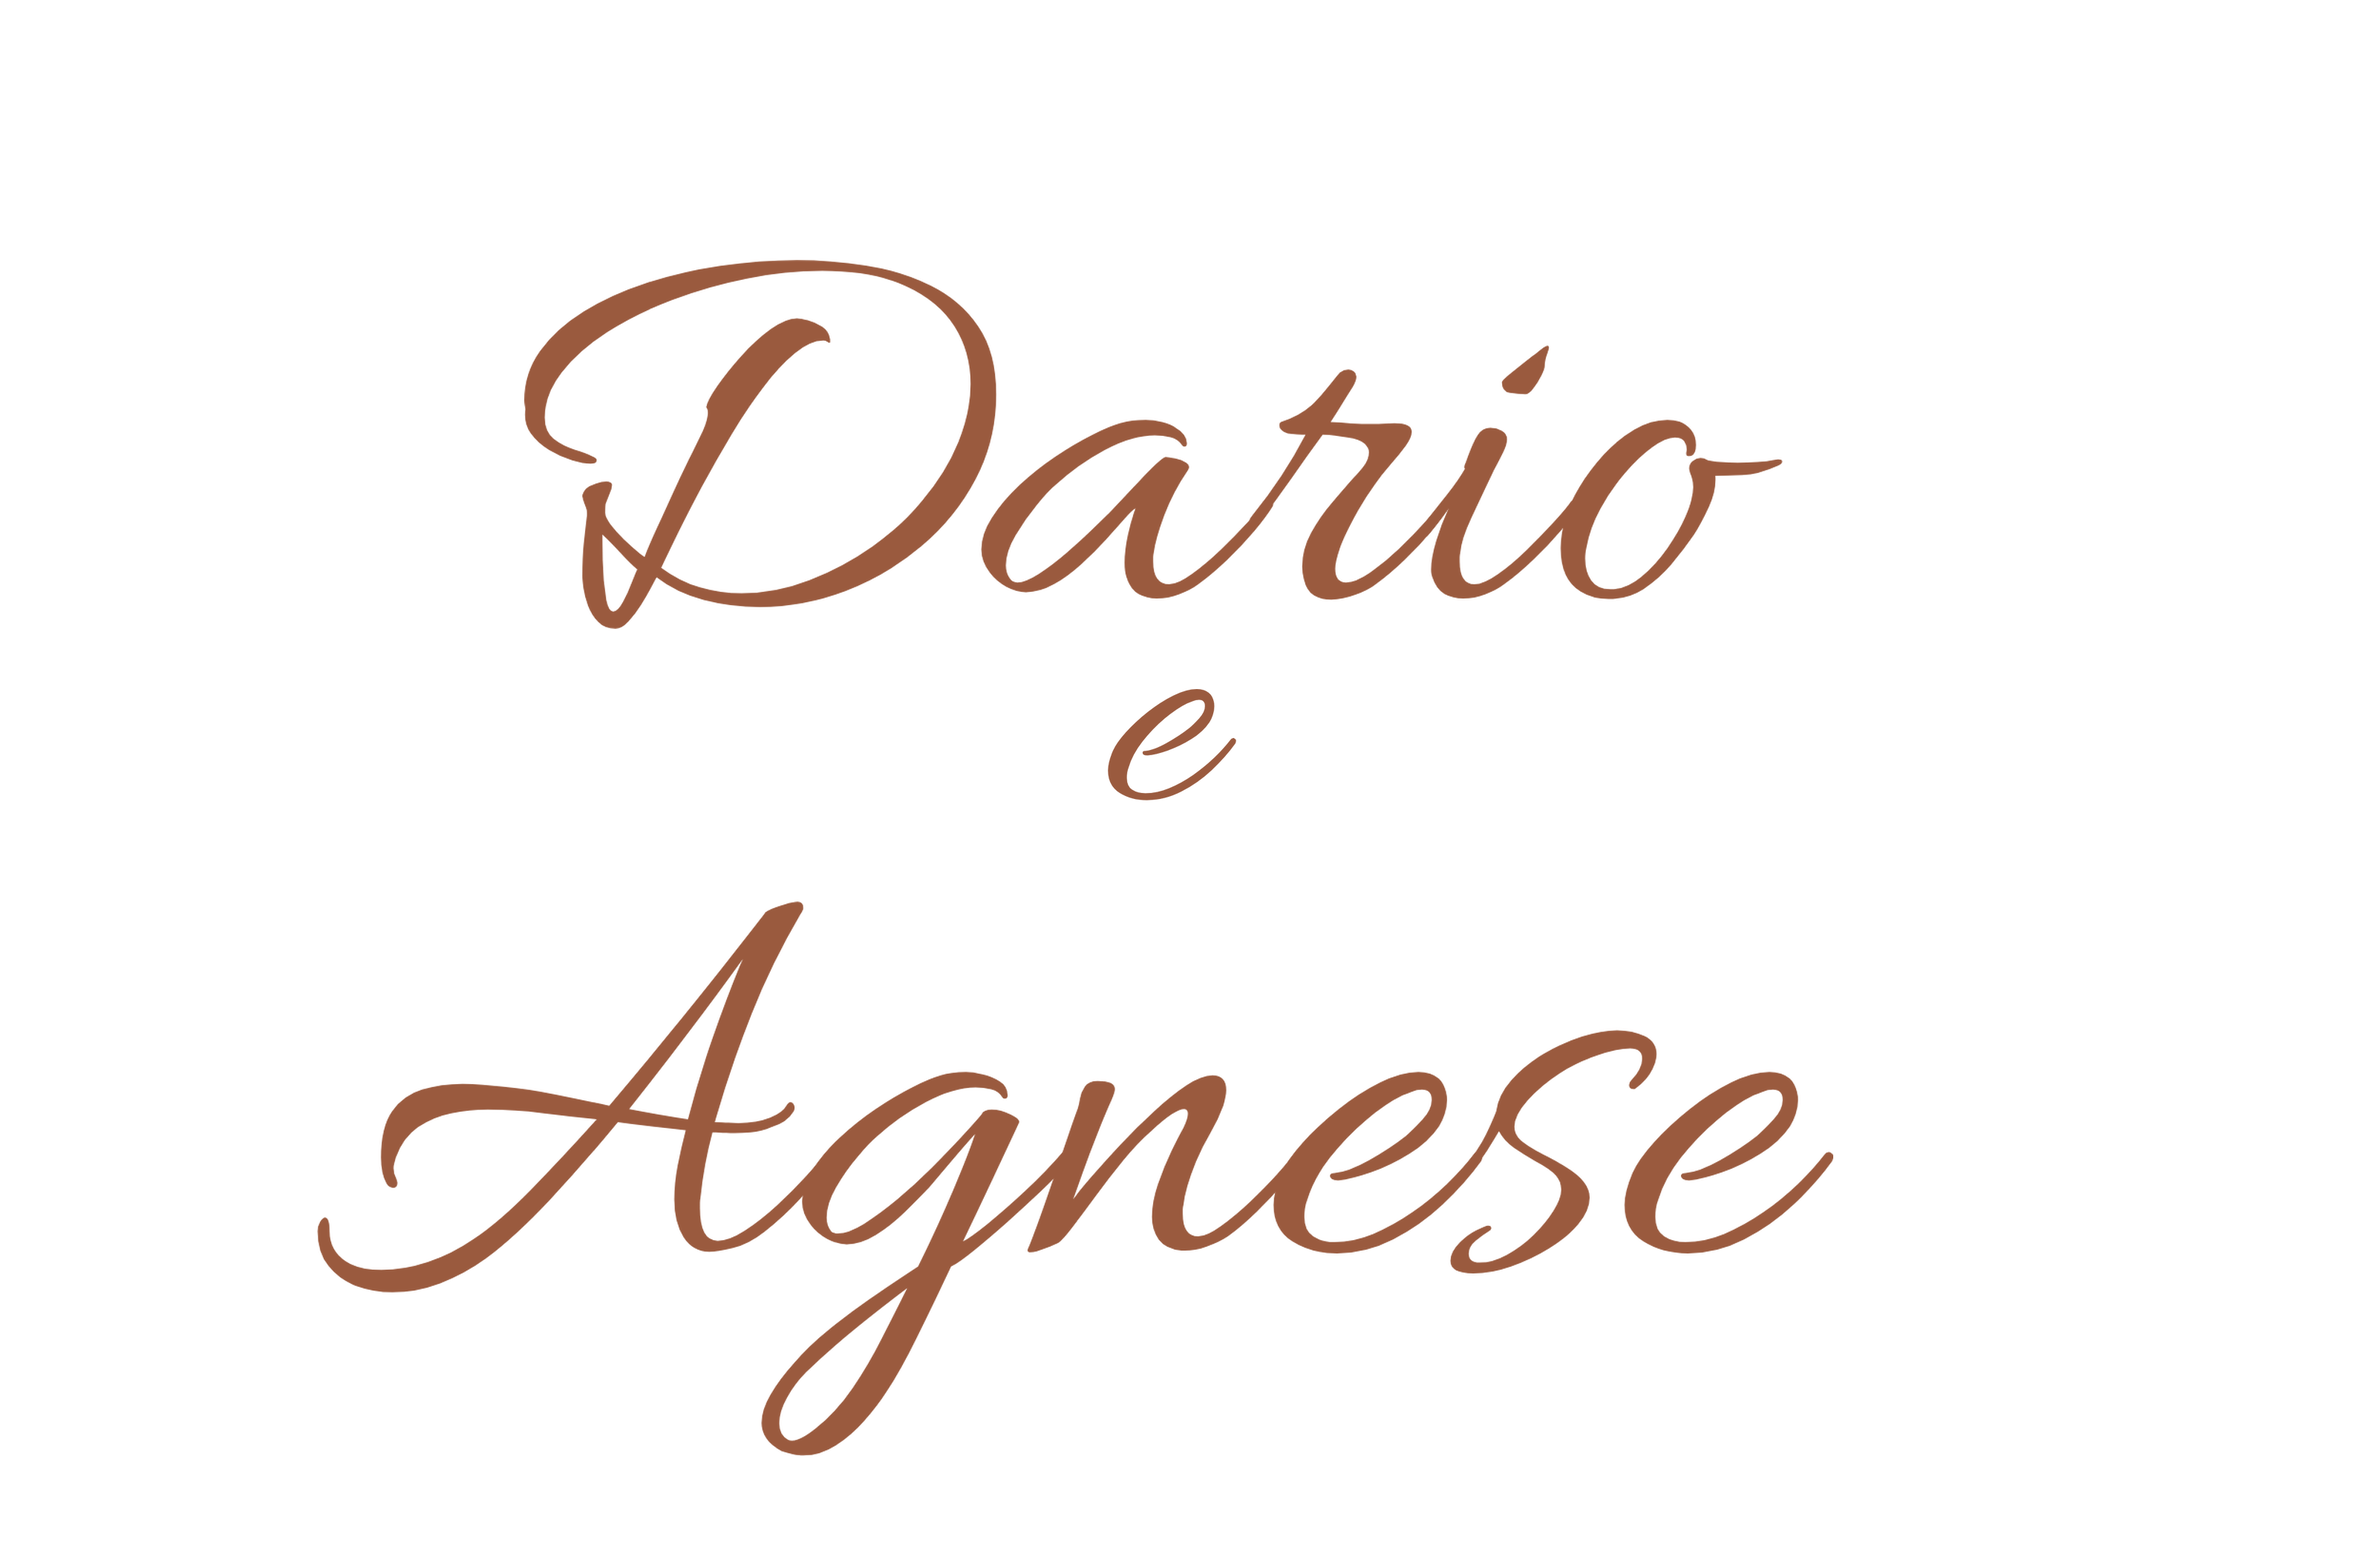
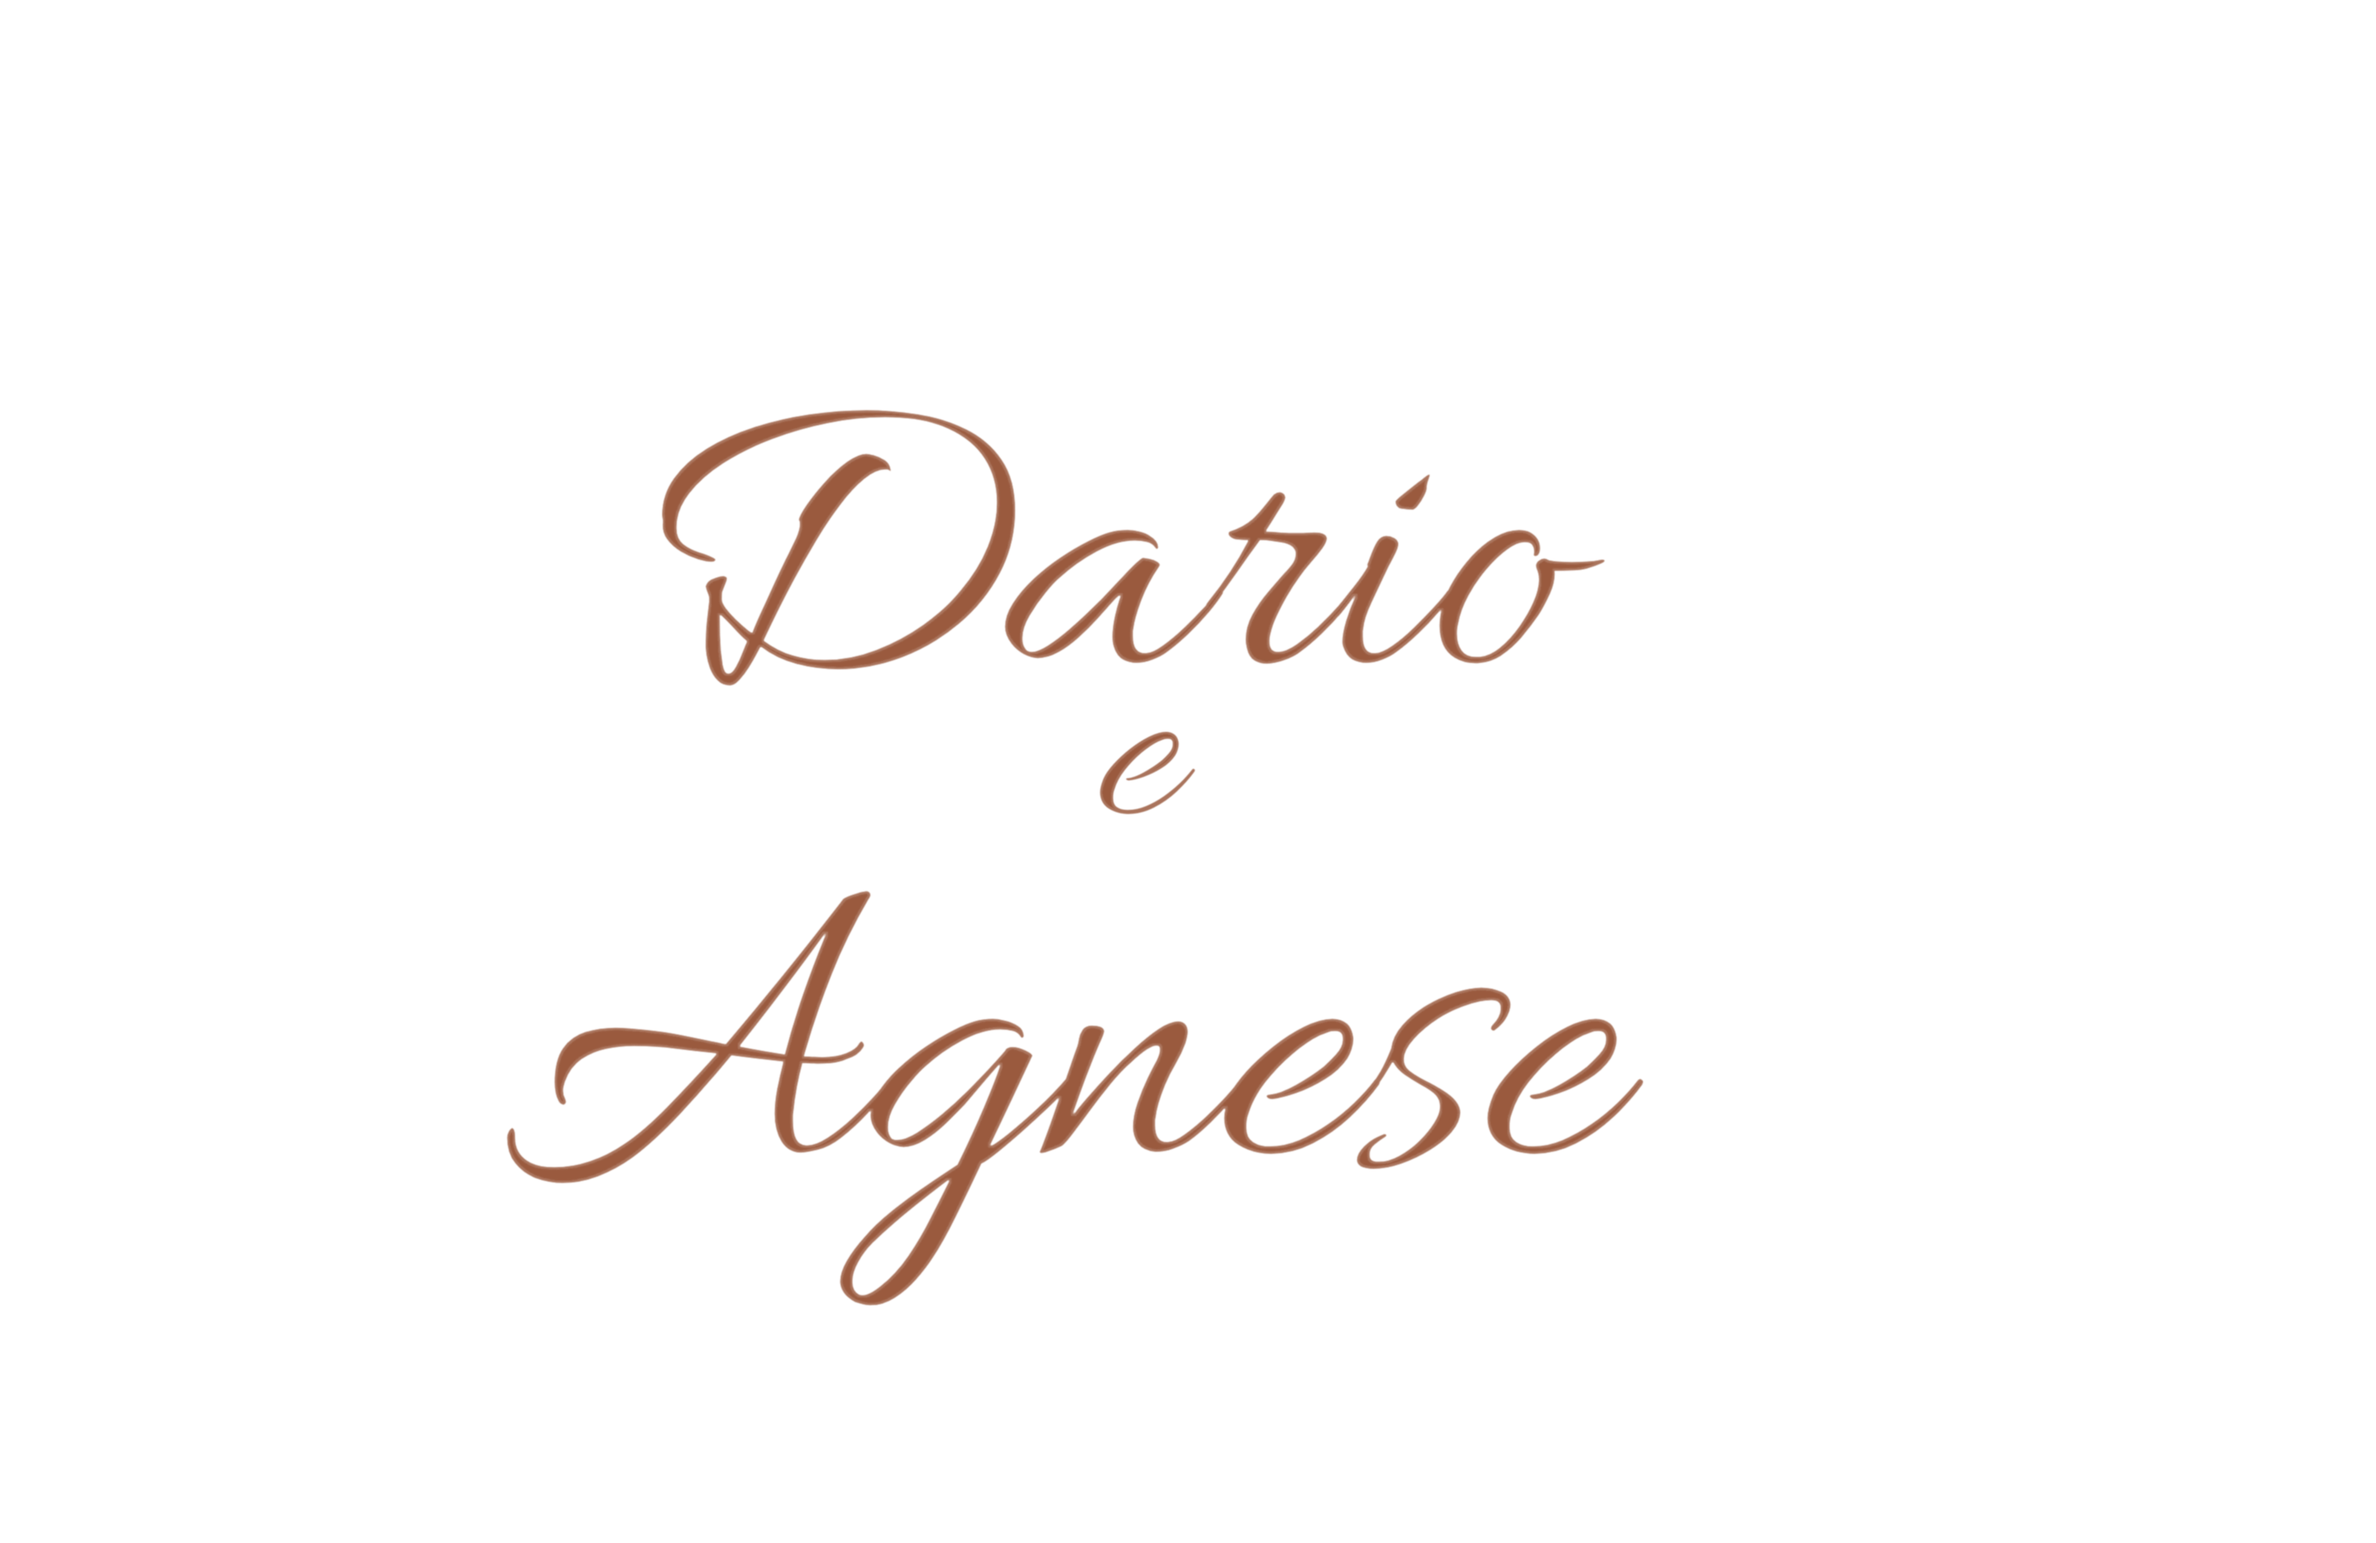
Nomi più sottili e piccoli, login con meno arancione
Claude-Session: https://claude.ai/code/session_01PdJstiLgGaGNqANp758HWv

Changed region(s): [[0.125, 0.5852, 0.7812, 0.9548], [0.2188, 0.154, 0.75, 0.5236], [0.375, 0.1848, 0.4062, 0.2156]]

diff --git a/style.css b/style.css
@@ -264,7 +264,7 @@ body {
 .password-overlay {
   position: fixed;
   inset: 0;
-  background: linear-gradient(160deg, var(--lightest) 0%, #fdfcfa 55%, var(--lightest) 100%);
+  background: linear-gradient(180deg, #fdfaf7 0%, #fffdfb 50%, #fbf6f2 100%);
   display: flex;
   align-items: center;
   justify-content: center;
@@ -277,7 +277,7 @@ body {
   background: white;
   padding: 50px 60px;
   border-radius: 20px;
-  box-shadow: 0 10px 50px rgba(var(--rgb), 0.22);
+  box-shadow: 0 12px 40px rgba(110, 70, 50, 0.10);
   text-align: center;
   max-width: 450px;
   width: 90%;
@@ -295,6 +295,16 @@ body {
   right: 0;
   height: 4px;
   background: linear-gradient(to right, var(--lighter), var(--base), var(--lighter));
+}
+
+.password-card::before {
+  height: 2px;
+  background: linear-gradient(to right, transparent, var(--light), transparent);
+}
+
+.password-card .divider {
+  height: 1px;
+  background: linear-gradient(to right, transparent, var(--muted), transparent);
 }
 
 .password-title {
@@ -333,7 +343,7 @@ body {
 .password-input {
   width: 100%;
   padding: 15px 20px;
-  border: 2px solid var(--lighter);
+  border: 1.5px solid #ebe1da;
   border-radius: 12px;
   font-size: 1rem;
   font-family: 'Playfair Display', serif;
@@ -344,8 +354,8 @@ body {
 
 .password-input:focus {
   outline: none;
-  border-color: var(--base);
-  box-shadow: 0 0 0 3px rgba(var(--rgb), 0.18);
+  border-color: var(--light);
+  box-shadow: 0 0 0 3px rgba(var(--rgb), 0.10);
 }
 
 .password-btn {
@@ -353,7 +363,7 @@ body {
   margin-top: 20px;
   padding: 15px;
   background: var(--base);
-  box-shadow: 0 4px 14px rgba(var(--rgb), 0.35);
+  box-shadow: 0 4px 12px rgba(var(--rgb), 0.22);
   color: white;
   border: none;
   border-radius: 12px;
